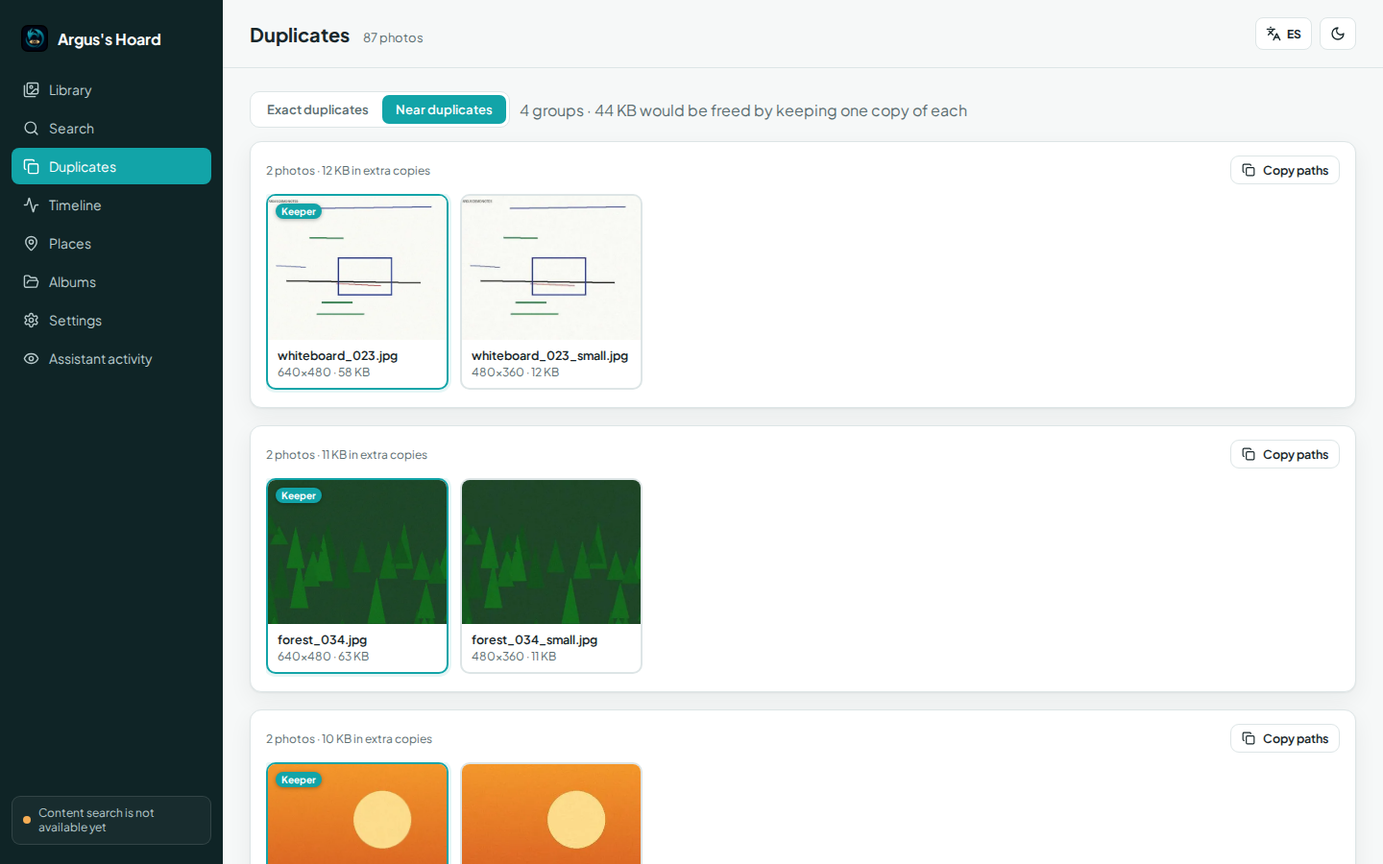
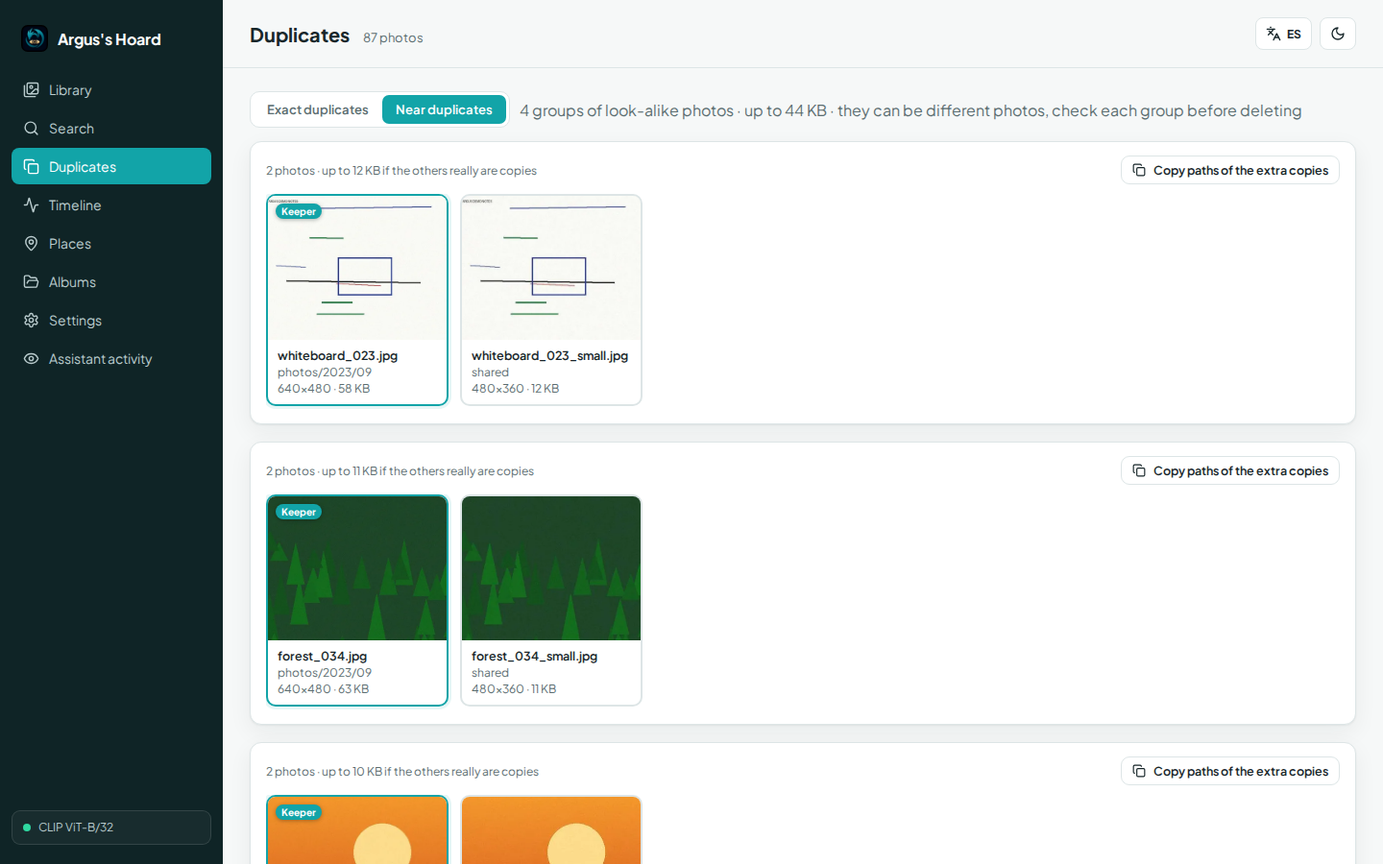
docs: add use cases to the READMEs and record the re-walk
Both READMEs gain a short "Use cases" section linking to
docs/USE_CASES.md, and no longer promise a contact sheet to every model:
it is sent only when a model that can see images asks for it. The
tables describe the keeper rule, near totals as "up to" and parent
cities; the test count goes from 116 (stale since the second pass) to
141, with what the usability passes added.

docs/USABILITY_REPORT.md gains the third pass: what the re-walk found
still broken (the parent-city fix on real data and on existing
libraries, the leftover count), each fix with its commit, a verdict per
use case, the final agent numbers (28 calls, about 19k tokens, only the
two images photos_show was asked for, 0 failed checks) and what is
still open. The README screenshots are retaken from the demo with the
real image model active, so the search caption is true again.

Claude-Session: https://claude.ai/code/session_019KVoFTp2agjwLaonbFXam5

diff --git a/README.es.md b/README.es.md
@@ -4,7 +4,7 @@
 
 ### ¿Sigues teniendo la foto del perro en la playa del verano pasado?
 
-**Una fototeca privada que indexa tus carpetas en tu propio ordenador, entiende lo que aparece en cada imagen y le entrega a un modelo de IA local resultados compactos y una única hoja de contactos numerada que puede mirar de verdad.**
+**Una fototeca privada que indexa tus carpetas en tu propio ordenador, entiende lo que aparece en cada imagen y le entrega a un modelo de IA local resultados de texto compactos y ordenados con honestidad, y una hoja de contactos numerada solo cuando el modelo puede ver imágenes.**
 
 [English](README.md) · [Ejecutar en local](#ejecutar-en-local-en-windows) · [Conectar una IA](docs/MCP.md) · [Portfolio](https://luissalet.github.io/Portfolio/#projects)
 
@@ -23,10 +23,39 @@ Argos indexa las carpetas del usuario en su propio equipo (embeddings de
 imagen CLIP con ONNX Runtime, sin PyTorch y sin llamadas a la nube), lee
 EXIF y GPS, geocodifica sin conexión y encuentra duplicados exactos y
 aproximados. El modelo recibe resultados cortos, filtrados y numerados,
-con identificadores estables, y una sola hoja de contactos con las
-candidatas, de modo que un modelo con visión puede revisar diez fotos por
-el precio de una imagen antes de afirmar nada. Argos nunca modifica,
+con identificadores estables y un grado de coincidencia (fuerte, media o
+débil) en cada uno. Un modelo con visión puede pedir una sola hoja de
+contactos con las candidatas y revisar diez fotos por el precio de una
+imagen antes de afirmar nada; un modelo solo de texto nunca recibe una
+imagen que no haya pedido. Argos nunca modifica,
 mueve ni borra un archivo original; es un invariante con su test.
+
+## Casos de uso
+
+Ocho escenarios, recorridos en el navegador y, los del agente, por MCP
+real con un script que hace de modelo local pequeño
+([docs/USE_CASES.md](docs/USE_CASES.md); lo encontrado y lo corregido
+está en [docs/USABILITY_REPORT.md](docs/USABILITY_REPORT.md)):
+
+- **Primer arranque**: añadir `Imágenes` (sirve una ruta pegada con las
+  comillas del Explorador), descargar el modelo de imagen en Ajustes
+  mientras la barra cuenta los megas y buscar «sunset over the sea».
+- **Una foto por contenido y fecha**: *«¿tienes la foto del perro en la
+  playa del verano pasado?»*. El modelo busca «dog on the beach» con un
+  rango de fechas, recibe solo texto y dice cuánta seguridad tiene.
+- **Liberar espacio**: las copias exactas conservan el original del
+  carrete, y «Copiar rutas de las copias extra» deja fuera la que se
+  conserva; los duplicados aproximados se muestran como «hasta», para
+  revisarlos grupo a grupo.
+- **Álbumes desde el agente**: *«haz un álbum "Lisboa 2024" con todo el
+  viaje»*: solo con filtros (`place="Lisbon"`, julio de 2024) y paginando
+  con `next_offset` se cubre el viaje entero.
+- **Con otras herramientas**: un retrato vertical para el CV que el
+  asistente copia luego con sus propias herramientas de archivos, y las
+  fotos de la claqueta y el croma del rodaje de un cortometraje reunidas en un
+  álbum.
+- **Recuerdos y lugares**: «un día como hoy» con lugares, y Lugares
+  agrupado por país y ciudad.
 
 ## Qué está implementado
 
@@ -35,8 +64,8 @@ mueve ni borra un archivo original; es un invariante con su test.
 | Indexado | Escaneos incrementales en segundo plano: un archivo sin cambios cuesta un `stat`; los modificados se vuelven a leer; los movidos o renombrados conservan su id, su vector, su descripción y sus álbumes. Hash y decodificación en paralelo, progreso con archivos/s y tiempo restante, y un archivo ilegible se anota sin parar el escaneo. JPEG, PNG, WebP, GIF, BMP, TIFF y HEIC/HEIF | Sin vigilancia del sistema de archivos: los reescaneos los lanza el usuario, el agente o una carpeta nueva |
 | Metadatos | Fecha EXIF con zona horaria, cámara, objetivo, exposición, ISO, focal, orientación y GPS; si no hay fecha EXIF se usa la del archivo y se indica | Solo EXIF; no lee archivos XMP |
 | Búsqueda | Texto a imagen con CLIP ViT-B/32 (en inglés funciona mejor; las herramientas piden al modelo que traduzca), fotos parecidas y filtros (rango de fechas, año, mes, lugar, carpeta, cámara, orientación, megapíxeles, GPS). Híbrida con las descripciones cuando existen | El modelo (unos 600 MB) solo se descarga cuando el usuario lo pide en Ajustes. Hasta entonces funciona un modo básico que solo entiende colores, y cada resultado lo avisa |
-| Duplicados | Exactos (BLAKE2b) y aproximados (pHash, distancia de Hamming hasta 6, búsqueda exacta multiíndice, union-find), con la copia recomendada y el espacio que ocupan las copias sobrantes | Solo lectura por diseño: «Copiar rutas» y «Abrir carpeta»; borrar es cosa del usuario |
-| Lugares y tiempo | Geocodificación inversa sin conexión (tabla integrada de 10 ciudades o GeoNames `cities1000` bajo petición), países y ciudades con recuentos, cronología por año y mes, «un día como hoy» | Sin mapas con teselas, para no hacer peticiones de red por una vista |
+| Duplicados | Exactos (BLAKE2b) y aproximados (pHash, distancia de Hamming hasta 6, búsqueda exacta multiíndice, union-find), con la copia recomendada (el original, no la copia de seguridad ni la del chat) y el espacio que ocupan las copias sobrantes | Solo lectura por diseño: «Copiar rutas de las copias extra» y «Abrir carpeta»; borrar es cosa del usuario. Un grupo aproximado puede juntar fotos distintas que se parecen, así que su espacio se muestra como «hasta» |
+| Lugares y tiempo | Geocodificación inversa sin conexión (tabla integrada de 10 ciudades o GeoNames `cities1000` bajo petición, donde cada barrio lleva la ciudad a la que pertenece: «Alfama, Lisbon, Portugal»), países y ciudades con recuentos, cronología por año y mes, «un día como hoy» | Sin mapas con teselas, para no hacer peticiones de red por una vista. La tabla integrada no ubica nada a más de 50 km de sus 10 ciudades |
 | Descripciones | Modelo de visión local de Ollama, opcional, por foto o en lote en segundo plano, guardado en un índice de texto completo para la búsqueda híbrida | Desactivado por defecto; nunca se genera durante el indexado |
 | Álbumes | Los crea el usuario o el agente, desde el visor o con una herramienta; el agente solo puede añadir | Sin álbumes anidados |
 | Interfaz | Interfaz React de escritorio: cuadrícula de miniaturas con carga continua, visor con zoom y desplazamiento sobre una vista previa grande (1600 px) del original, panel EXIF, fotos parecidas, inglés y español, tema claro y oscuro | Las secciones de la barra lateral no tienen URL propia |
@@ -72,7 +101,7 @@ trabajo de la aplicación y arranca él mismo el adaptador MCP.
 
 | Herramienta | Qué hace | Solo lectura |
 | --- | --- | --- |
-| `photos_search` | Texto (en inglés) -> fotos, con filtros y hoja de contactos numerada | sí |
+| `photos_search` | Texto (en inglés) -> fotos con grado de coincidencia, filtros y paginación; hoja de contactos numerada solo si se pide | sí |
 | `photos_similar` | Fotos que se parecen a una dada | sí |
 | `photos_show` | Hasta 4 imágenes para verlas de cerca (200 KB como máximo cada una) | sí |
 | `photos_describe` | EXIF, lugar y ruta; descripción local opcional | sí (la descripción pedida se guarda en la base de datos de Argos) |
@@ -159,7 +188,7 @@ hilos e índice de duplicados: [docs/ARCHITECTURE.md](docs/ARCHITECTURE.md).
 ## Tests
 
 ```powershell
-.venv\Scripts\python -m pytest -q          # 116 tests, unos 15-25 s, sin red
+.venv\Scripts\python -m pytest -q          # 141 tests, unos 20-30 s, sin red
 .venv\Scripts\python -m pytest -q -m model # 1 test opcional con el modelo CLIP real (lo descarga si falta)
 cd frontend; npm run build                 # TypeScript estricto
 ```
@@ -193,7 +222,18 @@ descripciones y su aplazamiento si el modelo sigue ocupado; que un `Link`
 sustituido se cierre en vez de dejar su hilo abierto; un `backend.json`
 roto; el detector de idioma no inglés; y la separación entre
 `/api/search` y `/api/agent/photos_search` (solo la ruta de la interfaz
-traduce). El test del
+traduce). De las pasadas de usabilidad: que una búsqueda o un «similares»
+por defecto no lleva ninguna imagen; los grados de coincidencia por
+modelo y que no haya un `count` suelto en los resultados del agente; la
+paginación y los listados solo con filtros; que un resultado vacío diga
+qué filtro relajar; la regla de la copia recomendada que evita carpetas
+de copia de seguridad; los grupos de duplicados resumidos y los totales
+aproximados como cota superior; la ciudad a la que pertenece cada barrio
+con filas reales de GeoNames (Lisboa, Madrid, Tokio, Kioto, Cádiz) y que
+una biblioteca ya existente se reetiquete una vez cuando cambia el
+geocodificador; Lugares agrupado por ciudad; quitar fotos de un álbum;
+rutas entre comillas; nombres de álbum sin distinguir tildes; y el
+progreso de la descarga en megas. El test del
 modelo indexa las escenas de demostración con CLIP real y comprueba que
 cuatro descripciones en inglés encuentran la escena correcta. El flujo de
 CI está preparado para pasar la batería en Ubuntu y Windows con Python

diff --git a/README.md b/README.md
@@ -4,7 +4,7 @@
 
 ### Do you still have the photo of the dog on the beach from last summer?
 
-**A private photo library that indexes your folders locally, understands what is in each picture, and hands a local AI model compact results plus one numbered contact sheet it can actually look at.**
+**A private photo library that indexes your folders locally, understands what is in each picture, and hands a local AI model compact, honestly ranked text results -- plus one numbered contact sheet, only when the model can see images.**
 
 [Español](README.es.md) · [Run locally](#run-locally-on-windows) · [Connect an AI](docs/MCP.md) · [Portfolio](https://luissalet.github.io/Portfolio/#projects)
 
@@ -23,10 +23,37 @@ Argus indexes the owner's folders on their own machine (CLIP image
 embeddings through ONNX Runtime, no PyTorch, no cloud call), reads EXIF
 and GPS, reverse-geocodes offline, and finds exact and near duplicates.
 The model gets short, filtered, numbered results with stable ids and a
-single contact-sheet image of the candidates, so a vision model can check
-ten photos for the price of one image before it claims anything. Argus
+relevance band (strong/medium/weak) on each one. A vision model can ask
+for a single contact-sheet image of the candidates and check ten photos
+for the price of one image before it claims anything; a text-only model
+never receives an image it did not ask for. Argus
 never modifies, moves or deletes an original file; that invariant is
 tested.
+
+## Use cases
+
+Eight scenarios, each walked in the browser and, for the agent ones, over
+real MCP stdio by a script that plays a small local model
+([docs/USE_CASES.md](docs/USE_CASES.md); what was found and fixed is in
+[docs/USABILITY_REPORT.md](docs/USABILITY_REPORT.md)):
+
+- **First run**: add `Pictures` (a path pasted with Explorer's quotes
+  works), download the image model from Settings while the bar counts the
+  megabytes, and search "sunset over the sea".
+- **One photo by content and date**: *"do you still have the photo of
+  the dog on the beach from last summer?"* The model searches "dog on the
+  beach" with a date range, gets text only, and says how sure it is.
+- **Free up space**: exact copies keep the camera-roll original, and
+  "Copy paths of the extra copies" leaves the keeper out; near duplicates
+  are shown as "up to", to check group by group.
+- **Albums by the agent**: *"make an album 'Lisboa 2024' with the whole
+  trip"*: filters alone (`place="Lisbon"`, July 2024), paged with
+  `next_offset`, cover the trip.
+- **With other tools**: a vertical portrait for a CV that the assistant
+  then copies with its own file tools, and the clapperboard and
+  green-screen shots of a short-film shoot collected in one album.
+- **Memories and places**: "on this day" with places, and Places grouped
+  by country and city.
 
 ## What is implemented
 
@@ -35,8 +62,8 @@ tested.
 | Indexing | Background, incremental scans: unchanged files cost one `stat`; changed files are re-read; moved or renamed files keep their id, vector, caption and albums. Parallel hashing and decoding, progress with files/s and ETA, one unreadable file is reported instead of stopping the scan. JPEG, PNG, WebP, GIF, BMP, TIFF, HEIC/HEIF | No file-system watcher: rescans are started by the user, the agent or a new folder |
 | Metadata | EXIF date with time-zone offset, camera, lens, exposure, ISO, focal length, orientation, GPS; file time as fallback, flagged as such | EXIF only; XMP sidecars are not read |
 | Search | Text to image with CLIP ViT-B/32 (English queries work best; the tools tell the model to translate), similar photos, filters (date range, year, month, place, folder, camera, orientation, megapixels, GPS). Hybrid with captions when they exist | The model (about 600 MB) is downloaded only when the user clicks it in Settings. Until then a colour-only fallback is active and every result says so |
-| Duplicates | Exact (BLAKE2b) and near (pHash, Hamming distance up to 6, exact multi-index lookup, union-find) with a suggested keeper and the space that extra copies use | Read-only by design: "Copy paths" and "Open folder", deleting is up to the owner |
-| Places and time | Offline reverse geocoding (bundled 10-city table, or GeoNames `cities1000` on request), countries and cities with photo counts, timeline by year and month, "on this day" | No map tiles, to avoid any network request for a view |
+| Duplicates | Exact (BLAKE2b) and near (pHash, Hamming distance up to 6, exact multi-index lookup, union-find) with a suggested keeper (the original, not the backup or chat-app copy) and the space that extra copies use | Read-only by design: "Copy paths of the extra copies" and "Open folder", deleting is up to the owner. A near group can join different look-alike photos, so its space is shown as "up to" |
+| Places and time | Offline reverse geocoding (bundled 10-city table, or GeoNames `cities1000` on request, where a neighbourhood is labelled with the city it belongs to: "Alfama, Lisbon, Portugal"), countries and cities with photo counts, timeline by year and month, "on this day" | No map tiles, to avoid any network request for a view. The bundled table places nothing more than 50 km from its 10 cities |
 | Captions | Optional local Ollama vision model per photo or as a background batch, stored in a full-text index for hybrid search | Off by default; never generated during indexing |
 | Albums | Created by the owner or the agent from the lightbox or by tool call; the agent can only add | No nested albums |
 | Interface | React desktop-style UI: thumbnail grid with infinite scroll, lightbox with zoom and pan on a large (1600 px) preview of the original, EXIF panel, similar strip, English and Spanish, light and dark | Sidebar sections are not deep-linkable URLs |
@@ -69,7 +96,7 @@ launches the MCP adapter itself.
 
 | Tool | What | Read-only |
 | --- | --- | --- |
-| `photos_search` | Text (English) -> photos, filters, numbered contact sheet | yes |
+| `photos_search` | Text (English) -> photos with relevance bands, filters, paging; a numbered contact sheet only on request | yes |
 | `photos_similar` | Photos that look like a given one | yes |
 | `photos_show` | Up to 4 images for a closer look (200 KB each at most) | yes |
 | `photos_describe` | EXIF, place, path; optional local caption | yes (a requested caption is saved in Argus's database) |
@@ -154,7 +181,7 @@ index are described in [docs/ARCHITECTURE.md](docs/ARCHITECTURE.md).
 ## Tests
 
 ```powershell
-.venv\Scripts\python -m pytest -q          # 116 tests, about 15-25 s, no network
+.venv\Scripts\python -m pytest -q          # 141 tests, about 20-30 s, no network
 .venv\Scripts\python -m pytest -q -m model # 1 opt-in test with the real CLIP model (downloads it if missing)
 cd frontend; npm run build                 # TypeScript strict
 ```
@@ -181,7 +208,16 @@ or not; the good-citizen `wait_idle("vision")` pause in a caption batch and its
 postponement when the model stays busy; retiring a replaced `Link`
 instead of leaking its thread; a broken `backend.json`;
 the non-English query detector; and the `/api/search` vs
-`/api/agent/photos_search` split (only the UI path ever translates). The
+`/api/agent/photos_search` split (only the UI path ever translates).
+From the usability passes: no image in a default search or similar call;
+relevance bands per embedder and no bare `count` in agent results;
+paging and filter-only listings; an empty result naming the filter to
+relax; the keeper rule avoiding backup folders; summarised duplicate
+groups and near totals called an upper bound; parent cities from real
+GeoNames rows (Lisbon, Madrid, Tokyo, Kyoto, Cadiz) and relabelling an
+existing library once when the geocoder changes; Places grouped by city;
+removing photos from an album; quoted paths; accent-insensitive album
+names; and download progress in MB. The
 model test indexes the demo scenes with real CLIP and checks that four
 English descriptions find the right scene. The CI workflow is set up to
 run the suite on Ubuntu and Windows with Python 3.11 and 3.13, build the

diff --git a/docs/USABILITY_REPORT.md b/docs/USABILITY_REPORT.md
@@ -65,6 +65,72 @@ photos, and libraries above the synthetic set's 262 photos -- the same
 list the first pass left, since fixing the reproducible bugs did not
 require any of them.
 
+## Third pass: re-walk after the fixes
+
+Every use case was walked again, as a person (Playwright at 1280x800 and
+1920x1080, Spanish and English, light and dark, every screenshot read) and
+as an agent (`scripts/agent_walkthrough.py` over real MCP stdio), against
+three instances: a **fresh** first run (empty data folder, folder added
+through the UI with Explorer-style quotes, the image model downloaded from
+Settings), an **upgraded** library (the first pass's data, labelled by the
+old geocoder with the world-cities file, now opened with the new code),
+and the `--demo` data for the README screenshots. Zero console errors or
+failed requests in every walk.
+
+Two fixes of the second pass did not survive contact with real data:
+
+- **B4 was not fixed.** On the real `cities1000` file the "nearest place
+  of 15,000+ people" is often another neighbourhood: Alfama became
+  "Alfama, Sao Jorge de Arroios", Madrid's districts got no parent, and
+  `place="Lisbon"` matched about 10 of the 54 trip photos. The unit test
+  passed only because its fake file had no populous neighbourhoods. And an
+  existing library never received the new labels at all: a rescan skips
+  unchanged files, so the upgraded library still found 2 of 54.
+- **B2 was half fixed.** Agent search results still carried `count` next
+  to `returned` and `indexed_total` ("kept for older callers"), so a
+  default search still said `count=262` to the model.
+
+| Finding (re-walk) | Commit | What changed |
+| --- | --- | --- |
+| B4 on real data | `2f44ff8` | The parent city comes from the dataset's admin codes (the most populous seat of a division the place belongs to, within 30 km). Tested with real rows for Lisbon, Madrid, Tokyo, Kyoto and Cadiz. |
+| B4/A11 on existing libraries | `2f44ff8` | A geocoder-version stamp; a library labelled by another version is relabelled once in the background at start, and a photo that can no longer be placed loses its wrong label. |
+| Places listed neighbourhoods | `2f44ff8` | 22 Madrid districts ("Ibiza", "Salamanca"), no "Madrid": Places now groups by the parent city (Tokyo 31, Kyoto 12, Lisbon 60, Madrid 92, Cadiz 13). |
+| A11 hint never shown | `2f44ff8` | The bundled table returns no country beyond 50 km, so the "download the world data" hint counted zero; it now counts GPS photos without a city (25 on the fresh instance). |
+| A1 download looked frozen | `2c5d4a2` | The first fresh download took more than ten minutes here at a static "5%". Progress is now reported in MB from the bytes on disk; the job ends with "image model ready: 262 photos analysed, content search is on". |
+| B2 remnant | `6526a10` | Agent routes drop `count`. |
+| A10 remnant | `6526a10` | An empty result names the filter to relax ("without min_megapixels=2 alone, 40 would"); UC5 recovered in one retry. |
+| A3 wording | `6526a10`, `661e162` | Near-duplicate totals are an upper bound: a `note` for the agent, "up to ... check each group before deleting" in the UI. |
+| A9 leaked into the UI | `6526a10`, `661e162` | The agent's English translate hint showed verbatim in the Spanish UI. Notes now carry codes and the UI words them in both languages. |
+| Folder label "07" | `661e162` | Duplicate tiles climb past year/month folders ("Camera Roll/2024/07"). |
+| Walkthrough out of date | `5be8ab0` | It crashed on the summarised duplicate groups; it now checks the new shapes. |
+| Album prompt grammar | `80f2a45` | "The file stay where it is"; plus a test for the removal route. |
+
+### Verdict per use case
+
+| Use case | Verdict | Evidence |
+| --- | --- | --- |
+| UC1 first run | works, with a caveat | Quoted path accepted; 262 photos indexed, the truncated JPEG reported; model downloaded from Settings and re-embedded without further clicks; "sunset over the sea" finds sunsets. Caveat: the first-run checklist (A1's larger part) is still not built -- the amber badge and banner are the guide. |
+| UC2 dog on the beach | works | UI and agent: burst + the two dog photos lead, all `strong`; no image in any default call; the Spanish query gets a translated hint in the UI and a named-language hint for the agent. |
+| UC3 free up space | works, with a caveat | Exact: 15 groups, every keeper is the camera-roll original, "Copy paths of the extra copies" leaves it out. Near: the burst is one group and no chat-app copy is a keeper, but groups can still join different photos (six different scans); now labelled "up to" (A3's algorithm change is still open). |
+| UC4 Lisboa 2024 album (agent) | works | Filters alone, two pages via `next_offset`: 54 of 54 trip photos on the bundled table, 53 of 54 with world cities (one GPS point jittered into the river lands in Trafaria, across it -- an honest label). |
+| UC5 CV portrait (agent) | works, with a caveat | Empty first result names `min_megapixels`; the retry returns five real vertical portraits and an absolute path. Caveat: the synthetic portraits score `weak` (0.23-0.24), so the model is told to hedge; real photos need a threshold check. |
+| UC6 short-film album | works | "film clapperboard" and "green screen studio" in March 2025: only clapperboards and green screens are `strong`; UI add-to-album folds accents; removing a photo in the album view works with the two-step prompt. |
+| UC7 on this day (agent) | works | Three photos of 22 September (2023-2025) with Madrid places, no image. |
+| UC8 places and receipts | works, with a caveat | Places is right on both geocoders, Cadiz is never labelled Portugal. The synthetic data has no receipts during the Lisbon trip, so "paper receipt" in July 2024 honestly says "no strong match"; without the date all 7 receipts come first. |
+
+Agent walkthrough, final run: 28 calls, about 19k text tokens (35k in
+the first pass), 2 images (both from `photos_show`, the only tool that
+returns them), 0 failed checks, on both the fresh and the upgraded
+instance. The tool list costs about 3.3k tokens (`photos_search` about
+830 of them). pytest: 132 -> 141.
+
+Still open: A1's first-run checklist, A3's grouping algorithm, A5
+(copies side by side in results and albums: the WhatsApp copy of a dog
+photo is still #2 for "dog on the beach"), C2/C3 (English reasons and
+country names in the Spanish UI), C4-C7, and merging the two
+"Rodaje La Estacion"/"Rodaje La Estación" albums the first pass created before
+the accent fold.
+
 ## How it was tested
 
 - **Data**: `scripts/make_uxtest_photos.py` built a synthetic `Pictures`

diff --git a/docs/ARCHITECTURE.md b/docs/ARCHITECTURE.md
@@ -29,7 +29,10 @@
   histogram, deterministic across processes); `ClipEmbedder` (fastembed /
   ONNX Runtime CLIP ViT-B/32, 512-d, no PyTorch); `VectorStore`.
 - `geocode.py` -- offline reverse geocoding: bundled 10-city fixture, or
-  GeoNames `cities1000` once the user downloads it.
+  GeoNames `cities1000` once the user downloads it. With `cities1000` a
+  neighbourhood's `region` is the city it belongs to, read from the admin
+  codes; `GEOCODER_VERSION` is stamped in settings so a library labelled
+  by an older version is relabelled once at start.
 - `captions.py` -- `LinkCaptioner` (what `Library._captioner()` returns:
   captions through Hoard Link's `vision` capability) plus the original
   `OllamaCaptioner` (a direct connection to one Ollama server, kept for

diff --git a/docs/MCP.md b/docs/MCP.md
@@ -80,7 +80,7 @@ own database (the photo file is never touched). All annotations set
 | `taken_after` / `taken_before` | ISO date or datetime | none | inclusive; a plain date covers the whole day |
 | `year` | int | none | 1800-2200 |
 | `month` | int | none | 1-12 |
-| `place` | string | none | substring of city, parent municipality, region or country |
+| `place` | string | none | substring of the place, the city it belongs to ("Lisbon" finds Alfama and Restelo) or the country |
 | `folder` | string | none | substring of the path, either slash direction |
 | `camera` | string | none | substring of make or model |
 | `orientation` | `"landscape"` or `"portrait"` | none | |
